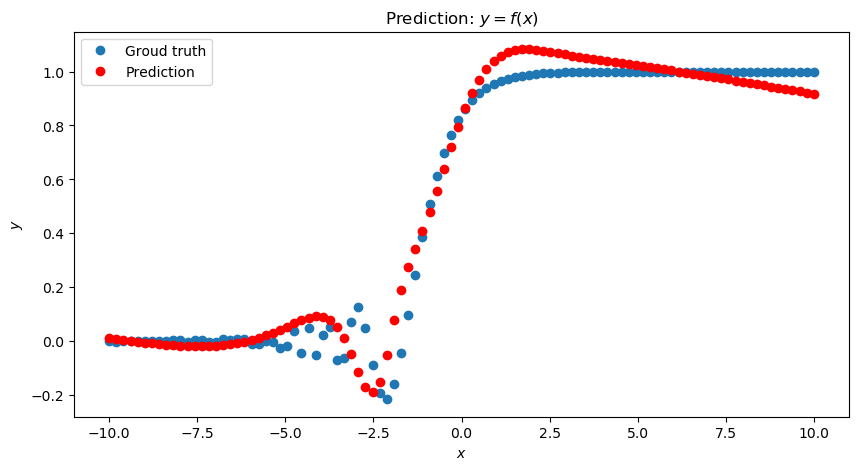
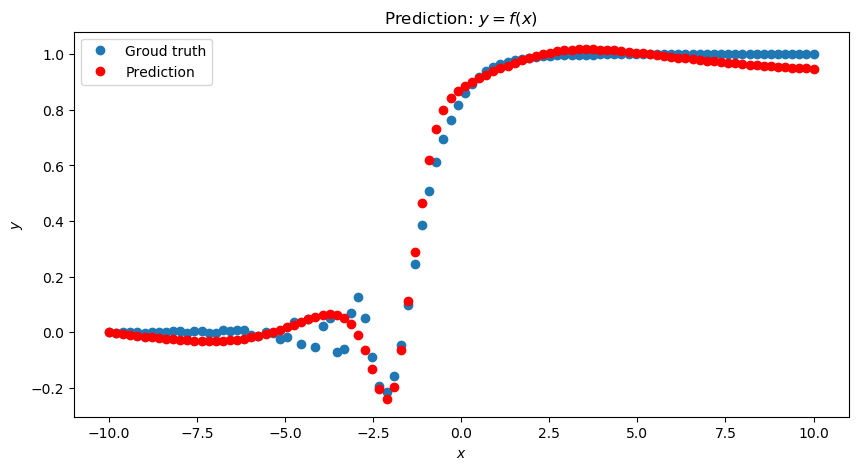
- small improvements

diff --git a/lb1/NeuralNetwork.py b/lb1/NeuralNetwork.py
@@ -22,6 +22,28 @@ class NeuralNetwork(torch.nn.Module):
         x = self.fc2(x)
         return x
 
+class NewNeuralNetwork(torch.nn.Module):
+    def __init__(self, n_hidden_neurons):
+        super(NewNeuralNetwork, self).__init__()
+        # Создание входного слоя
+        self.fc1 = torch.nn.Linear(1, n_hidden_neurons)
+        # Функция активации
+        self.act1 = torch.nn.Sigmoid()
+        # Создание выходного слоя
+        self.fc2 = torch.nn.Linear(n_hidden_neurons, n_hidden_neurons)
+        self.fc3 = torch.nn.Linear(n_hidden_neurons, n_hidden_neurons)
+        self.fc4 = torch.nn.Linear(n_hidden_neurons, n_hidden_neurons)
+        self.fc5 = torch.nn.Linear(n_hidden_neurons, 1)
+
+    def forward(self, x):
+        x = self.fc1(x)
+        x = self.act1(x)
+        x = self.fc2(x)
+        x = self.fc3(x)
+        x = self.fc4(x)
+        x = self.fc5(x)
+        return x
+
 
 def predict(net, x, y, plot_name):
     y_pred = net.forward(x)
@@ -117,22 +139,23 @@ def influence_lr(directory, neurons_amount, lr, x_train, y_train, x_valid, y_val
 
 
 def find_optimal_params(x_train, y_train, x_valid, y_valid, epochs):
-    MAE_hist = []
+    current_MAE = 1
     min_MAE = 1
     min_lr = 0
     min_n = 0
     found = False
     for lri in range (10, 100, 1):
         lrb = lri / 1000
-        for neurons in range (10, 50, 1):
-            net = NeuralNetwork(neurons)
+        for neurons in range (30, 50, 1):
+            net = NewNeuralNetwork(neurons)
             optimizer = torch.optim.Adam(net.parameters(), lrb)
             for epoch_index in range(epochs):
                 optimizer.zero_grad()
                 y_pred = net.forward(x_train)
                 loss(y_pred, y_train).backward()
                 optimizer.step()
-                print('epoch-count: ' + str(epoch_index) + ' neurons ammount ' + str(neurons) + ' lr ' + str(lrb))
+                print('epoch-count: ' + str(epoch_index) + ' neurons ammount '
+                      + str(neurons) + ' lr ' + str(lrb) + ' current mae ' + str(current_MAE) )
             current_MAE = metric(net.forward(x_valid), y_valid).item()
             if (current_MAE < 0.03):
                 min_MAE = current_MAE

diff --git a/lb1/funApp.py b/lb1/funApp.py
@@ -54,6 +54,6 @@ plt.close()
 
 # nn.influence_of_neurons(direct, n_hidden_neurons, lr, x_train, y_train, x_validation, y_validation, epoch_count)
 # nn.influence_lr(direct, n_hidden_neurons, lr, x_train, y_train, x_validation, y_validation, epoch_count)
-# nn.train_net_work(direct, n_hidden_neurons, lr, x_train, y_train, x_validation, y_validation, epoch_count)
+nn.train_net_work(direct, n_hidden_neurons, lr, x_train, y_train, x_validation, y_validation, epoch_count)
 nn.find_optimal_params(x_train,y_train,x_validation,y_validation,epoch_count)
 
